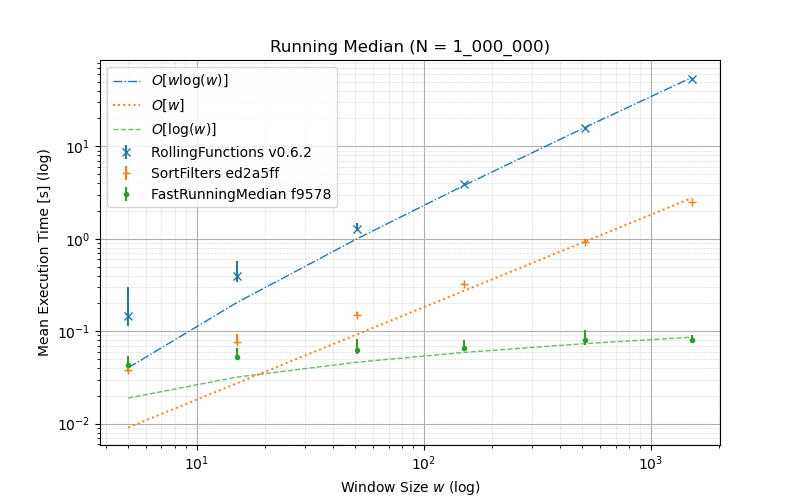
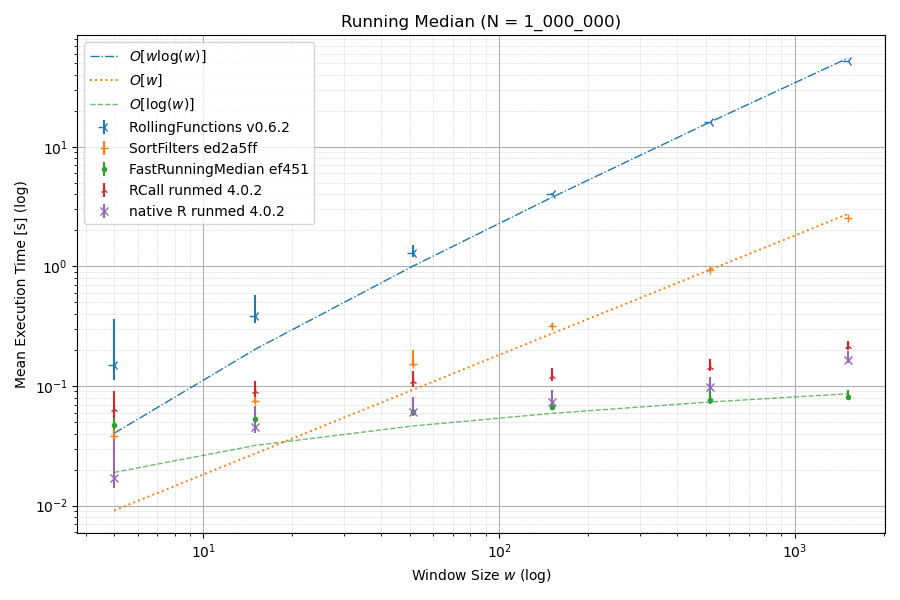
Add R runmed Benchmark comparison

diff --git a/README.md b/README.md
@@ -16,7 +16,7 @@ This Julia Package allows you to calculate a running median - fast.
 ## Installation
 
 
-In Julia, execute: 
+In Julia, execute:
 
 
 ```julia
@@ -57,7 +57,7 @@ If you choose an even `window_size`, the elements of the output array lie in the
 The underlying algorithm should scale as O(N log w) with the input size N and the window_size w. 
 
 
-<a target='_blank' href='https://github.com/Firionus/FastRunningMedian/blob/c7798bbd69c69904ba267faa1d53e440f42cb1cf/src/FastRunningMedian.jl#L299-L317' class='documenter-source'>source</a><br>
+<a target='_blank' href='https://github.com/Firionus/FastRunningMedian/blob/ef451c11c8596ca8edcc5c7e7e8aa1948964c543/src/FastRunningMedian.jl#L299-L317' class='documenter-source'>source</a><br>
 
 
 <a id='Taperings-Visualized'></a>
@@ -80,7 +80,10 @@ The underlying algorithm should scale as O(N log w) with the input size N and th
 ![Benchmark Comparison](docs/src/Running%20Median%20Benchmarks.png)
 
 
-In contrast to this package, [SortFilters.jl](https://github.com/sairus7/SortFilters.jl) also supports arbitrary percentage levels so you can for example calculate quantiles. 
+For large window sizes, this package performs even better than calling `runmed` in R, which uses the Turlach implementation written in C. For small window sizes, the Stuetzle implementation in R still outperforms this package, but the overhead from RCall doesn't seem worth it. If you want to add a fast implementation for small window sizes to this package, feel free to put in a PR or open an issue with any questions you might have. 
+
+
+In contrast to this package, [SortFilters.jl](https://github.com/sairus7/SortFilters.jl) supports arbitrary probability levels, for example to calculate quantiles.
 
 
 <a id='Stateful-API'></a>
@@ -106,7 +109,7 @@ Construct a stateful running median filter.
 Manipulate with [`grow!`](README.md#FastRunningMedian.grow!), [`roll!`](README.md#FastRunningMedian.roll!), [`shrink!`](README.md#FastRunningMedian.shrink!).  Query with [`median`](README.md#FastRunningMedian.median), [`length`](README.md#Base.length), [`window_size`](README.md#FastRunningMedian.window_size), [`isfull`](README.md#FastRunningMedian.isfull). 
 
 
-<a target='_blank' href='https://github.com/Firionus/FastRunningMedian/blob/c7798bbd69c69904ba267faa1d53e440f42cb1cf/src/FastRunningMedian.jl#L42-L49' class='documenter-source'>source</a><br>
+<a target='_blank' href='https://github.com/Firionus/FastRunningMedian/blob/ef451c11c8596ca8edcc5c7e7e8aa1948964c543/src/FastRunningMedian.jl#L42-L49' class='documenter-source'>source</a><br>
 
 <a id='FastRunningMedian.grow!' href='#FastRunningMedian.grow!'>#</a>
 **`FastRunningMedian.grow!`** &mdash; *Function*.
@@ -124,7 +127,7 @@ Returns the updated median. If mf would grow beyond maximum window size, an erro
 The new element is pushed onto the end of the circular buffer. 
 
 
-<a target='_blank' href='https://github.com/Firionus/FastRunningMedian/blob/c7798bbd69c69904ba267faa1d53e440f42cb1cf/src/FastRunningMedian.jl#L111-L120' class='documenter-source'>source</a><br>
+<a target='_blank' href='https://github.com/Firionus/FastRunningMedian/blob/ef451c11c8596ca8edcc5c7e7e8aa1948964c543/src/FastRunningMedian.jl#L111-L120' class='documenter-source'>source</a><br>
 
 <a id='FastRunningMedian.roll!' href='#FastRunningMedian.roll!'>#</a>
 **`FastRunningMedian.roll!`** &mdash; *Function*.
@@ -140,7 +143,7 @@ Roll the window over to the next position by replacing the first and oldest elem
 Will error when `mf` is not full yet - in this case you must first [`grow!`](README.md#FastRunningMedian.grow!) mf to maximum capacity. 
 
 
-<a target='_blank' href='https://github.com/Firionus/FastRunningMedian/blob/c7798bbd69c69904ba267faa1d53e440f42cb1cf/src/FastRunningMedian.jl#L219-L225' class='documenter-source'>source</a><br>
+<a target='_blank' href='https://github.com/Firionus/FastRunningMedian/blob/ef451c11c8596ca8edcc5c7e7e8aa1948964c543/src/FastRunningMedian.jl#L219-L225' class='documenter-source'>source</a><br>
 
 <a id='FastRunningMedian.shrink!' href='#FastRunningMedian.shrink!'>#</a>
 **`FastRunningMedian.shrink!`** &mdash; *Function*.
@@ -156,7 +159,7 @@ Shrinks `mf` by removing the first and oldest element in the circular buffer.
 Returns the updated median. Will error if mf contains only one element as a MedianFilter with zero elements would not have a median. 
 
 
-<a target='_blank' href='https://github.com/Firionus/FastRunningMedian/blob/c7798bbd69c69904ba267faa1d53e440f42cb1cf/src/FastRunningMedian.jl#L174-L181' class='documenter-source'>source</a><br>
+<a target='_blank' href='https://github.com/Firionus/FastRunningMedian/blob/ef451c11c8596ca8edcc5c7e7e8aa1948964c543/src/FastRunningMedian.jl#L174-L181' class='documenter-source'>source</a><br>
 
 <a id='FastRunningMedian.median' href='#FastRunningMedian.median'>#</a>
 **`FastRunningMedian.median`** &mdash; *Function*.
@@ -176,7 +179,7 @@ If the number of elements in MedianFilter is odd, the low_heap is always one ele
 If the number of elements in MedianFilter is even, both heaps are the same size and the median is the mean of both top elements. 
 
 
-<a target='_blank' href='https://github.com/Firionus/FastRunningMedian/blob/c7798bbd69c69904ba267faa1d53e440f42cb1cf/src/FastRunningMedian.jl#L62-L74' class='documenter-source'>source</a><br>
+<a target='_blank' href='https://github.com/Firionus/FastRunningMedian/blob/ef451c11c8596ca8edcc5c7e7e8aa1948964c543/src/FastRunningMedian.jl#L62-L74' class='documenter-source'>source</a><br>
 
 <a id='Base.length' href='#Base.length'>#</a>
 **`Base.length`** &mdash; *Function*.
@@ -192,7 +195,7 @@ Returns the number of elements in the stateful median filter `mf`.
 This number is equal to the length of the internal circular buffer. 
 
 
-<a target='_blank' href='https://github.com/Firionus/FastRunningMedian/blob/c7798bbd69c69904ba267faa1d53e440f42cb1cf/src/FastRunningMedian.jl#L86-L92' class='documenter-source'>source</a><br>
+<a target='_blank' href='https://github.com/Firionus/FastRunningMedian/blob/ef451c11c8596ca8edcc5c7e7e8aa1948964c543/src/FastRunningMedian.jl#L86-L92' class='documenter-source'>source</a><br>
 
 <a id='FastRunningMedian.window_size' href='#FastRunningMedian.window_size'>#</a>
 **`FastRunningMedian.window_size`** &mdash; *Function*.
@@ -208,7 +211,7 @@ Returns the window_size of the stateful median filter `mf`.
 This number is equal to the capacity of the internal circular buffer. 
 
 
-<a target='_blank' href='https://github.com/Firionus/FastRunningMedian/blob/c7798bbd69c69904ba267faa1d53e440f42cb1cf/src/FastRunningMedian.jl#L95-L101' class='documenter-source'>source</a><br>
+<a target='_blank' href='https://github.com/Firionus/FastRunningMedian/blob/ef451c11c8596ca8edcc5c7e7e8aa1948964c543/src/FastRunningMedian.jl#L95-L101' class='documenter-source'>source</a><br>
 
 <a id='FastRunningMedian.isfull' href='#FastRunningMedian.isfull'>#</a>
 **`FastRunningMedian.isfull`** &mdash; *Function*.
@@ -222,7 +225,7 @@ isfull(mf::MedianFilter)
 Returns true, when the length of the stateful median filter `mf` equals its window_size. 
 
 
-<a target='_blank' href='https://github.com/Firionus/FastRunningMedian/blob/c7798bbd69c69904ba267faa1d53e440f42cb1cf/src/FastRunningMedian.jl#L104-L108' class='documenter-source'>source</a><br>
+<a target='_blank' href='https://github.com/Firionus/FastRunningMedian/blob/ef451c11c8596ca8edcc5c7e7e8aa1948964c543/src/FastRunningMedian.jl#L104-L108' class='documenter-source'>source</a><br>
 
 
 <a id='Sources'></a>
@@ -245,5 +248,5 @@ W. Hardle, W. Steiger 1995: Optimal Median Smoothing. Published in  Journal of t
 ## Keywords
 
 
-Running Median is also known as Rolling Median or Moving Median. 
+Running Median is also known as Rolling Median or Moving Median.
 

diff --git a/docs/src/README.md b/docs/src/README.md
@@ -4,7 +4,7 @@ This Julia Package allows you to calculate a running median - fast.
 
 ## Installation
 
-In Julia, execute: 
+In Julia, execute:
 
 ```julia
 ]add https://github.com/Firionus/FastRunningMedian.git
@@ -24,7 +24,9 @@ running_median
 
 ![Benchmark Comparison](docs/src/Running%20Median%20Benchmarks.png)
 
-In contrast to this package, [SortFilters.jl](https://github.com/sairus7/SortFilters.jl) also supports arbitrary percentage levels so you can for example calculate quantiles. 
+For large window sizes, this package performs even better than calling `runmed` in R, which uses the Turlach implementation written in C. For small window sizes, the Stuetzle implementation in R still outperforms this package, but the overhead from RCall doesn't seem worth it. If you want to add a fast implementation for small window sizes to this package, feel free to put in a PR or open an issue with any questions you might have. 
+
+In contrast to this package, [SortFilters.jl](https://github.com/sairus7/SortFilters.jl) supports arbitrary probability levels, for example to calculate quantiles.
 
 ## Stateful API
 
@@ -49,4 +51,4 @@ W. Hardle, W. Steiger 1995: Optimal Median Smoothing. Published in  Journal of t
 
 ## Keywords
 
-Running Median is also known as Rolling Median or Moving Median. 
+Running Median is also known as Rolling Median or Moving Median.
